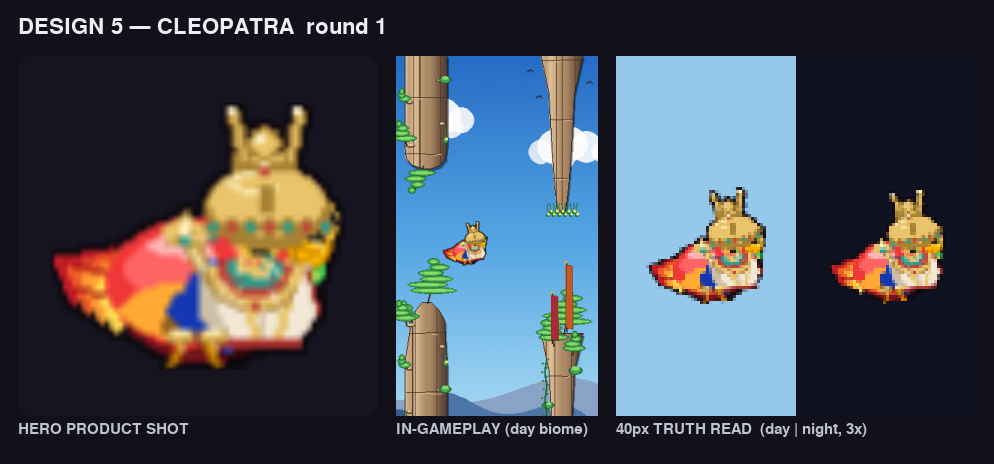
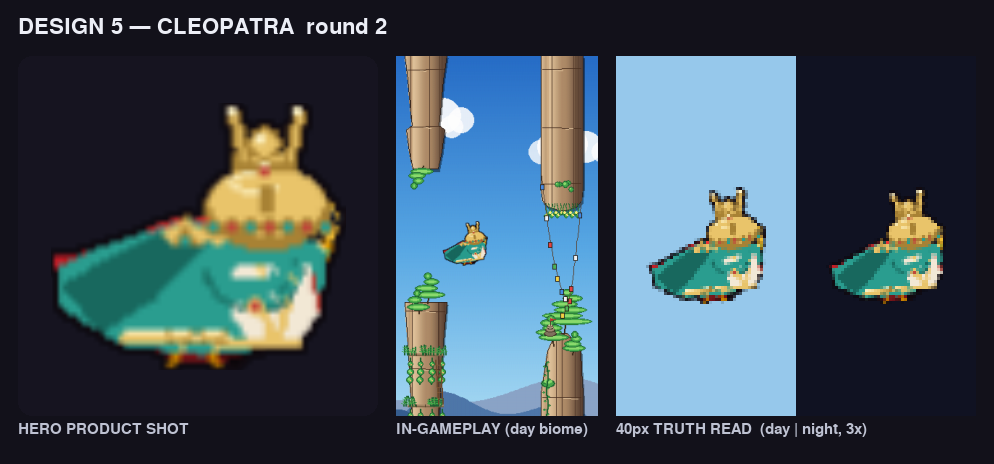
Cleopatra R2: kill macaw bleed, teal-dominant cloak + collar
Widen the sheath into a teal-trimmed cloak that paints over the exposed
orange wing + blue primary (no raw macaw warm/blue at 40px), drop the
five-arc collar to a two-value teal band + radius-2 gold beads, and make
teal the cloak silhouette top (collar) and bottom (mantle/hem) so the
cool-queen read survives downscale day and night.

Claude-Session: https://claude.ai/code/session_01HafGQfRZVDiGkQqpJPr5Cm

diff --git a/tools/pharaoh_candidates/design_5.py b/tools/pharaoh_candidates/design_5.py
@@ -44,68 +44,69 @@ _CL_REDTRIM = (176, 52, 48)     # the macaw red kept only as dress trim
 def _paint(surf, _a):
     cy = CROWN_Y
 
-    # ── golden LOTUS scepter, slung diagonally INSIDE the wing ────────────────
-    # Painted first so the body covers the shaft mid-section; only the gold
-    # lotus head and the base knob peek inside the silhouette. The whole staff
-    # is tucked above the feet line so nothing dangles past the true footprint.
-    lo_top = (HX - 17, HY + 2)    # lotus bloom up near the back shoulder
-    lo_bot = (HX - 8, HY + 19)    # base inside the lower body
-    pygame.draw.line(surf, _CL_GOLD_D, lo_top, lo_bot, 4)
-    pygame.draw.line(surf, _CL_GOLD, lo_top, lo_bot, 2)
-    pygame.draw.line(surf, _CL_GLINT, (lo_top[0] + 1, lo_top[1] + 2),
-                     (lo_bot[0] + 1, lo_bot[1] - 2), 1)
-    # Lotus bloom — a small gold cup of three upright petals so it reads as a
-    # flower, not a spearhead. A teal seed-bead at the heart ties it to the
-    # collar palette.
-    lx, ly = lo_top
-    _poly(surf, _CL_GOLD_D, [(lx - 4, ly), (lx + 4, ly), (lx, ly - 7)])      # centre petal
-    _poly(surf, _CL_GOLD, [(lx - 3, ly), (lx, ly - 6), (lx - 5, ly - 3)])    # left petal
-    _poly(surf, _CL_GOLD, [(lx + 3, ly), (lx, ly - 6), (lx + 5, ly - 3)])    # right petal
-    _poly(surf, _CL_GLINT, [(lx - 1, ly - 1), (lx + 1, ly - 1), (lx, ly - 5)])
-    pygame.draw.circle(surf, _CL_TEAL, (lx, ly), 1)                          # seed bead
-    pygame.draw.circle(surf, _CL_GOLD, (lo_bot[0], lo_bot[1] + 1), 2)        # base knob
-
-    # ── linen SHEATH DRESS painted OVER the scarlet body ──────────────────────
-    # A fitted column gown hugging the body, hem held INSIDE the base footprint
-    # (~HY+23) so the figure reads at the bird's true size. The macaw red is
-    # left only as a thin hem + side trim so the costume still nods to the
-    # scarlet skin beneath. Linen is the brightest mass low on the body, which
-    # anchors the day read; the bronze fold keeps the value on night.
-    sheath = [(HX - 13, HY + 7), (HX - 14, HY + 17), (HX - 10, HY + 23),
+    # ── TEAL-TRIMMED CLOAK + linen SHEATH painted OVER the scarlet body ───────
+    # The R1 sheath started at HX-13 and left the macaw's hot-orange wing + the
+    # blue primary fully exposed on the bird's left/front — at 40px that warm
+    # wedge was the loudest thing on the sprite and fought the cool read. So the
+    # garment now extends a TEAL MANTLE leftward/up to ~HX-18, painting clean
+    # OVER the orange wing + blue primary: no raw macaw warm/blue survives the
+    # downscale. Teal mantle (back) → linen sheath (front) gives the cool-queen
+    # silhouette colour up top; the bronze fold keeps value on a night sky.
+    # The mantle is cut to swallow the ENTIRE macaw wing/tail sweep, which on
+    # this frame fans out to ~HX-40 in the relY 6..23 band. The teal cloak
+    # reaches all the way to that swept tip so NO raw hot-orange wedge survives
+    # behind the figure at 40px — teal becomes the back silhouette colour.
+    mantle = [(HX + 13, HY + 4), (HX + 6, HY - 1), (HX - 16, HY - 3),
+              (HX - 33, HY + 2), (HX - 44, HY + 7), (HX - 43, HY + 16),
+              (HX - 30, HY + 24), (HX - 14, HY + 26), (HX + 6, HY + 24),
+              (HX + 12, HY + 11)]
+    _poly(surf, _CL_TEAL, mantle)
+    # Bronze-teal underside fold gives the long cloak form and night value.
+    _poly(surf, _CL_TEAL_D, [(HX - 16, HY - 3), (HX - 31, HY + 4),
+                             (HX - 43, HY + 11), (HX - 35, HY + 21),
+                             (HX - 24, HY + 14), (HX - 13, HY + 2)])
+    # Linen sheath as the bright low front mass over the teal mantle.
+    sheath = [(HX - 6, HY + 7), (HX - 7, HY + 17), (HX - 3, HY + 23),
               (HX + 7, HY + 23), (HX + 11, HY + 17), (HX + 9, HY + 7)]
     _poly(surf, _CL_LINEN, sheath)
-    # Soft central fold + back-edge shadow give the flat gown a little form.
-    _poly(surf, _CL_LINEN_D, [(HX - 13, HY + 7), (HX - 14, HY + 17),
-                              (HX - 10, HY + 23), (HX - 8, HY + 22),
-                              (HX - 11, HY + 16), (HX - 10, HY + 8)])
-    pygame.draw.line(surf, _CL_LINEN_D, (HX - 2, HY + 9), (HX - 1, HY + 22), 1)
+    pygame.draw.line(surf, _CL_LINEN_D, (HX + 2, HY + 9), (HX + 3, HY + 22), 1)
     # Thin gold shoulder straps framing the linen front into a clear V band.
-    pygame.draw.line(surf, _CL_GOLD, (HX - 6, HY + 7), (HX - 3, HY + 22), 2)
+    pygame.draw.line(surf, _CL_GOLD, (HX - 2, HY + 7), (HX, HY + 22), 2)
     pygame.draw.line(surf, _CL_GOLD, (HX + 6, HY + 7), (HX + 2, HY + 22), 2)
-    pygame.draw.line(surf, _CL_GLINT, (HX - 6, HY + 8), (HX - 4, HY + 14), 1)
-    # Red macaw kept only as a thin carnelian hem + a side seam — the trim.
-    pygame.draw.line(surf, _CL_REDTRIM, (HX - 10, HY + 23), (HX + 7, HY + 23), 2)
-    pygame.draw.line(surf, _CL_REDTRIM, (HX + 9, HY + 8), (HX + 11, HY + 17), 1)
+    pygame.draw.line(surf, _CL_GLINT, (HX - 2, HY + 8), (HX, HY + 14), 1)
+    # Teal HEM brackets the figure cool at the bottom too (collar cool up top,
+    # hem cool down low) — "she's cool-palette" unmistakable at a glance. The
+    # macaw red survives ONLY as a thin carnelian side seam, a line not a mass.
+    pygame.draw.line(surf, _CL_GOLD, (HX - 31, HY + 22), (HX + 7, HY + 23), 2)
+    pygame.draw.line(surf, _CL_GLINT, (HX - 30, HY + 21), (HX - 8, HY + 22), 1)
+    pygame.draw.line(surf, _CL_CARN, (HX + 10, HY + 9), (HX + 11, HY + 16), 1)
 
-    # ── wide BEADED CLEOPATRA COLLAR — teal / carnelian / gold rows ───────────
-    # Sits INSIDE the body footprint over the top of the sheath (top ~HY+4,
-    # bottom ~HY+13). Concentric arcs of cool teal + carnelian + gold read as a
-    # rich usekh gorget at 40px; the cool teal carries the read on a night sky
-    # where the gold king's collar would wash to a smear.
+    # A small gold LOTUS finial pinned at the mantle shoulder — a flower, not a
+    # spearhead — reading as a gold accent over the teal back without burying a
+    # shaft that would fight the cool mass. Teal seed-bead ties it to the collar.
+    lx, ly = HX - 17, HY + 2
+    _poly(surf, _CL_GOLD_D, [(lx - 3, ly), (lx + 3, ly), (lx, ly - 6)])      # centre petal
+    _poly(surf, _CL_GOLD, [(lx - 3, ly), (lx, ly - 5), (lx - 5, ly - 2)])    # left petal
+    _poly(surf, _CL_GOLD, [(lx + 3, ly), (lx, ly - 5), (lx + 5, ly - 2)])    # right petal
+    pygame.draw.circle(surf, _CL_TEAL, (lx, ly), 1)                          # seed bead
+
+    # ── BEADED CLEOPATRA COLLAR — TWO-value, teal-dominant ────────────────────
+    # R1's five concentric arcs read as confetti at 40px. Now a TWO-value
+    # collar: one solid TEAL arc band carries the whole silhouette (so the
+    # "cool queen" read survives downscale) + a single row of radius-2 gold
+    # beads punctuating it (radius-1 beads vanished at gameplay scale).
+    # Carnelian is banished to ONLY the central drop pendant.
     col_cx, col_cy = HX - 2, HY + 4
-    for r, col in ((11, _CL_GOLD_D), (10, _CL_GOLD), (8, _CL_CARN),
-                   (6, _CL_TEAL), (4, _CL_GOLD)):
-        pygame.draw.arc(surf, col, (col_cx - r, col_cy - r + 2, r * 2, r * 2),
-                        3.45, 6.1, 2)
-    # Bead dots punctuating the outermost row — alternating teal/carnelian so
-    # the cool jewelled read survives the downscale.
-    for k in range(6):
-        a = 3.6 + k * 0.42
-        bx = col_cx + 10 * math.cos(a)
-        by = col_cy + 10 * math.sin(a) + 2
-        bead = _CL_TEAL if k % 2 == 0 else _CL_CARN
-        pygame.draw.circle(surf, bead, (int(bx), int(by)), 1)
-    # A single carnelian drop pendant at the collar's heart.
+    pygame.draw.arc(surf, _CL_TEAL_D, (col_cx - 11, col_cy - 9, 22, 22),
+                    3.45, 6.1, 5)
+    pygame.draw.arc(surf, _CL_TEAL, (col_cx - 10, col_cy - 8, 20, 20),
+                    3.45, 6.1, 4)
+    for k in range(5):
+        a = 3.7 + k * 0.5
+        bx = col_cx + 9 * math.cos(a)
+        by = col_cy + 9 * math.sin(a) + 2
+        pygame.draw.circle(surf, _CL_GOLD, (int(bx), int(by)), 2)
+    # The single carnelian note: a gold-ringed drop pendant at the collar heart.
     pygame.draw.circle(surf, _CL_CARN, (col_cx, col_cy + 12), 2)
     pygame.draw.circle(surf, _CL_GOLD, (col_cx, col_cy + 12), 2, 1)
 

diff --git a/tools/pharaoh_candidates/render_design_5.py b/tools/pharaoh_candidates/render_design_5.py
@@ -13,7 +13,7 @@ from tools import ninja_render
 from tools.pharaoh_candidates.design_5 import build
 
 OUT = "docs/store_redesign/costume/pharaoh/design_5/round_1.png"
-TITLE = "DESIGN 5 — CLEOPATRA  round 1"
+TITLE = "DESIGN 5 — CLEOPATRA  round 2"
 
 
 def _label(surf, text, x, y, size=18, color=(236, 238, 246)):
